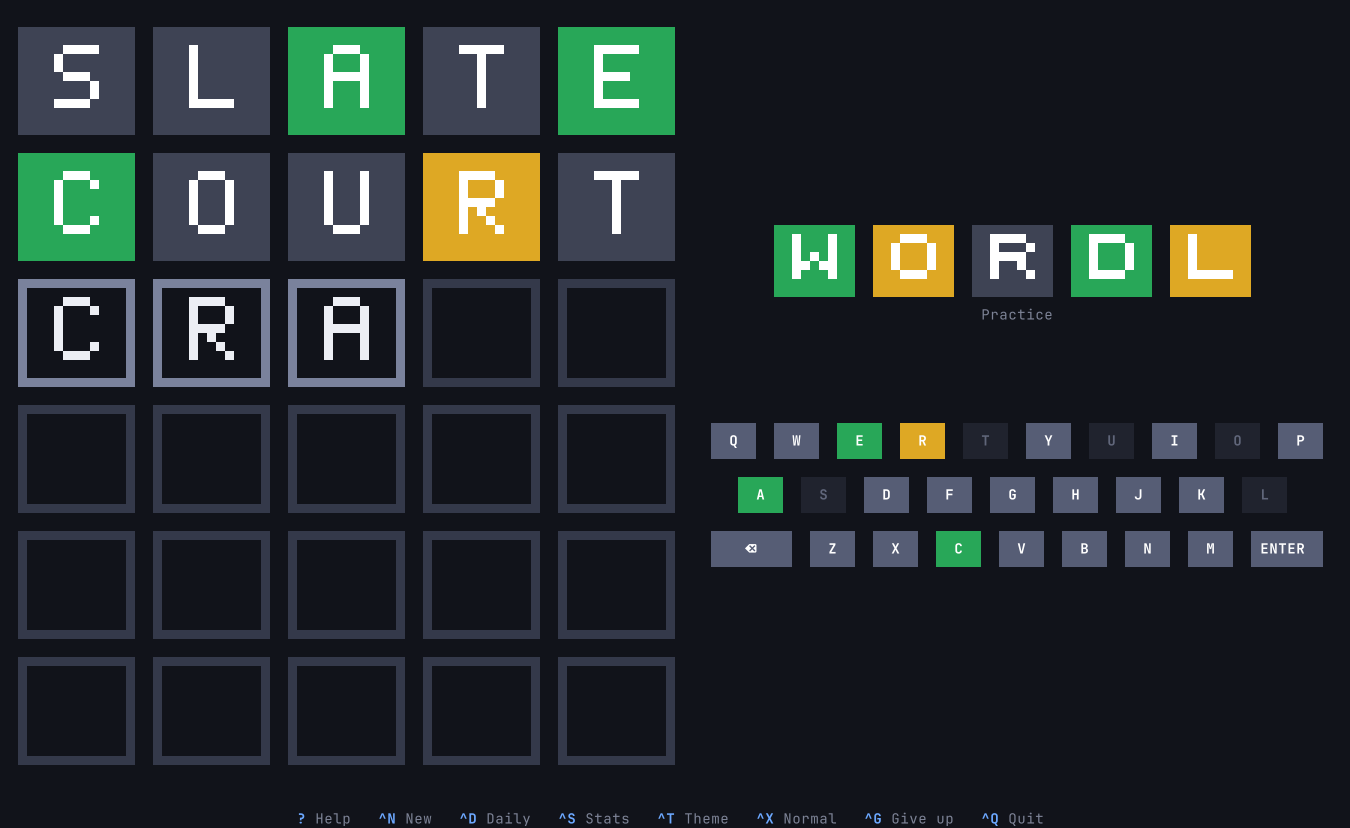
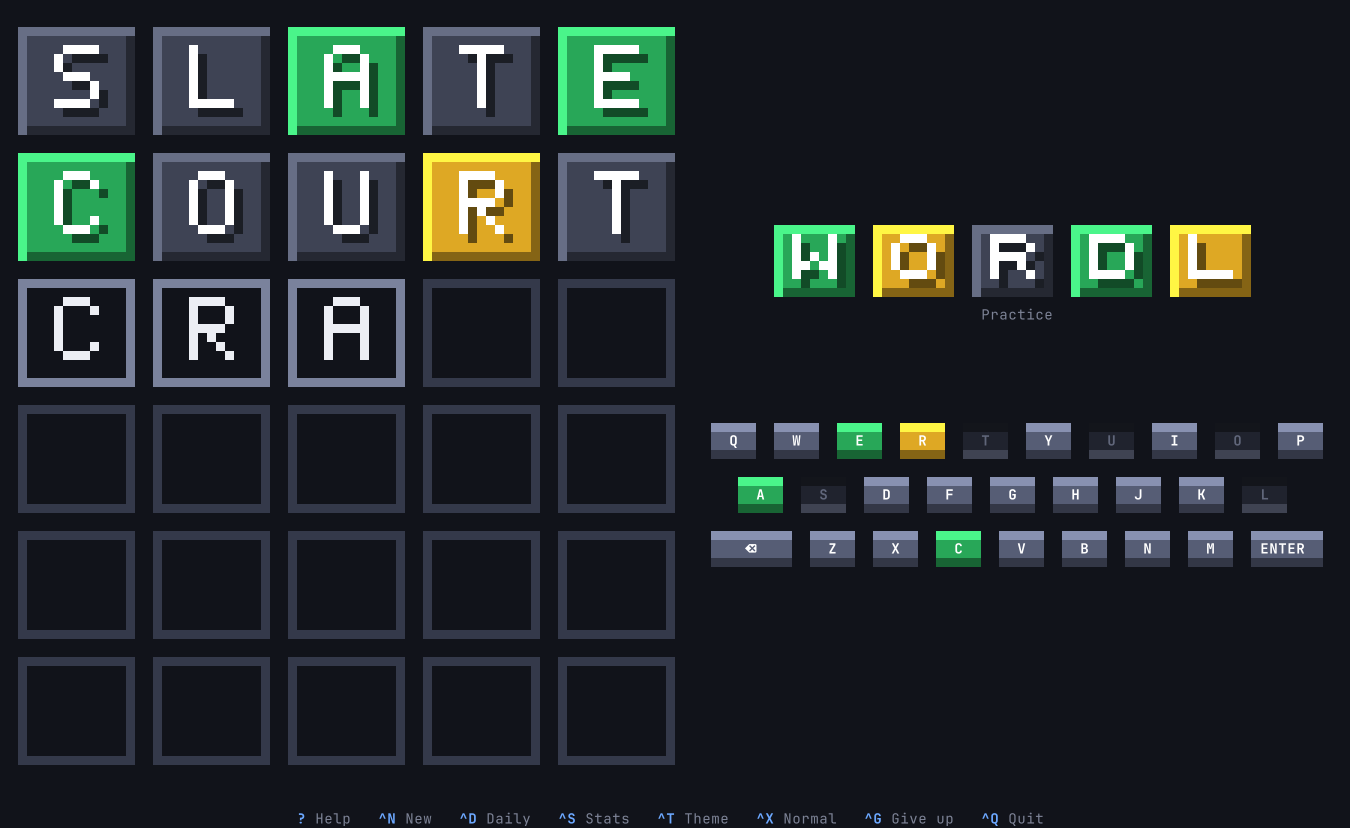
Draw tiles, keys and the title as shaded pixel art (0.2.6)
Filled blocks now have a lit top and left edge, a dark bottom and right
edge, and letters that cast a shadow, with a color for every pixel. It
is done with the half-block character the game already used: each cell
is drawn in its upper pixel's color on a background of its lower
pixel's, so it works in any terminal with enough colors. A key known
not to be in the word looks pressed in. The terminal theme, which has
no colors to shade, stays flat.

Changed region(s): [[0.0, 0.0302, 0.4978, 0.3321], [0.5289, 0.5133, 0.9956, 0.6944], [0.56, 0.2717, 0.9333, 0.3623]]

diff --git a/src/ui.rs b/src/ui.rs
@@ -12,7 +12,7 @@ use crate::app::{Action, App, FLASH_STEP, FLIP, KeyId, MessageKind, Modal, SHAKE
 use crate::font::{self, Label};
 use crate::game::{self, Mark, Mode, Status};
 use crate::layout::{self, Layout};
-use crate::theme::{Paint, Theme};
+use crate::theme::{self, Paint, Shades, Theme};
 use crate::words;
 
 const KEY_ROWS: [&str; 3] = ["QWERTYUIOP", "ASDFGHJKL", "ZXCVBNM"];
@@ -74,8 +74,11 @@ impl Canvas<'_> {
     /// blocks without spending a row on it. `fill` paints the block in `bg`; otherwise
     /// it is a frame in `bg` around the label. `inset` squashes the block vertically,
     /// for the flip animation.
+    ///
+    /// A filled block is drawn raised, as pixel art, where the theme has shades for it
+    /// (see `sprite`); `sunken` presses it in instead.
     #[allow(clippy::too_many_arguments)]
-    fn block(&mut self, x: i32, y: i32, w: i32, t: i32, fill: bool, bg: Paint, fg: Paint, label: Label, inset: i32) {
+    fn block(&mut self, x: i32, y: i32, w: i32, t: i32, fill: bool, bg: Paint, fg: Paint, label: Label, inset: i32, sunken: bool) {
         let screen = self.th.bg.bg;
         if t < 3 {
             return self.put(x, y, &centered(&label.text(w), w), on(fg.fg, bg.bg).bold());
@@ -88,8 +91,21 @@ impl Canvas<'_> {
         if bottom == top {
             return self.put(x, y + top, &"━".repeat(w as usize), edge);
         }
-        self.put(x, y + top, &"▄".repeat(w as usize), edge);
-        self.put(x, y + bottom, &"▀".repeat(w as usize), edge);
+        let shades = self.th.shades(bg).filter(|_| fill);
+        if let Some(shades) = shades
+            && t >= 5
+        {
+            return self.sprite(x, y, w, t, bg, fg, label, inset, sunken, shades);
+        }
+        // With one row of text there is no room for more than a lit top edge and a
+        // dark bottom one.
+        let (above, below) = match shades {
+            Some(s) if sunken => (s.dark, s.light),
+            Some(s) => (s.light, s.dark),
+            None => (bg.fg, bg.fg),
+        };
+        self.put(x, y + top, &"▄".repeat(w as usize), on(above, screen));
+        self.put(x, y + bottom, &"▀".repeat(w as usize), on(below, screen));
         let rows = if t == 3 { vec![centered(&label.text(w), w)] } else { font::glyph(label, w, t) };
         for i in top + 1..bottom {
             let Some(row) = rows.get((i - 1) as usize) else { continue };
@@ -100,6 +116,49 @@ impl Canvas<'_> {
                 self.put(x, y + i, "█", edge);
                 self.put(x + 1, y + i, &inner, on(fg.fg, screen).bold());
                 self.put(x + w - 1, y + i, "█", edge);
+            }
+        }
+    }
+
+    /// A filled block as pixel art: lit top and left edges, dark bottom and right
+    /// edges, and a letter that casts a shadow down and to the right.
+    ///
+    /// Every pixel has its own color. A cell holds two of them, one above the other:
+    /// it is drawn as `▀` in the color of the upper pixel on a background in the color
+    /// of the lower one. The block's first and last pixel rows are the screen's, as
+    /// for flat blocks, which keeps the gap between blocks.
+    #[allow(clippy::too_many_arguments)]
+    fn sprite(&mut self, x: i32, y: i32, w: i32, t: i32, bg: Paint, fg: Paint, label: Label, inset: i32, sunken: bool, shades: Shades) {
+        let screen = self.th.bg.bg;
+        let ink = font::pixels(label, w, t);
+        let inked = |col: i32, row: i32| row >= 2 && col >= 0 && ink.get((row - 2) as usize).and_then(|r| r.get(col as usize)).copied().unwrap_or(false);
+        let (lit, unlit) = if sunken { (shades.dark, shades.light) } else { (shades.light, shades.dark) };
+        // Big blocks get a thicker edge and a longer shadow, so the look scales.
+        let edge = if t >= 10 { 2 } else { 1 };
+        let reach = (font::scale_for(t) + 1) / 2;
+        // A light letter throws a dark shadow; a dark letter on a bright tile gets a
+        // light one instead, and reads as engraved.
+        let cast = if theme::brightness(fg) >= theme::brightness(bg) { shades.shadow } else { shades.light };
+        let (first, last) = (1 + 2 * inset, 2 * t - 2 - 2 * inset);
+        let color_at = |col: i32, row: i32| {
+            if row < first || row > last {
+                screen
+            } else if inked(col, row) {
+                fg.fg
+            } else if row - first < edge || col < edge {
+                lit
+            } else if last - row < edge || w - 1 - col < edge {
+                unlit
+            } else if !sunken && inked(col - reach, row - reach) {
+                cast
+            } else {
+                bg.bg
+            }
+        };
+        for i in inset..t - inset {
+            for col in 0..w {
+                let (upper, lower) = (color_at(col, 2 * i), color_at(col, 2 * i + 1));
+                self.put(x + col, y + i, if upper == lower { " " } else { "▀" }, on(upper, lower));
             }
         }
     }
@@ -161,7 +220,7 @@ fn draw_title(c: &mut Canvas, app: &App, l: &Layout) {
     }
     let colors = [(th.g, th.gfg), (th.y, th.yfg), (th.x, th.xfg), (th.g, th.gfg), (th.y, th.yfg)];
     for (i, (letter, (bg, fg))) in "WORDL".bytes().zip(colors).enumerate() {
-        c.block(x + i as i32 * l.title.px, l.hy, l.title.w, l.title.t, true, bg, fg, Label::Letter(letter), 0);
+        c.block(x + i as i32 * l.title.px, l.hy, l.title.w, l.title.t, true, bg, fg, Label::Letter(letter), 0, false);
     }
 }
 
@@ -214,7 +273,7 @@ fn draw_tile(c: &mut Canvas, app: &App, l: &Layout, row: usize, col: usize) {
         {
             (bg, fg) = (th.win, th.gfg);
         }
-        return c.block(x, y, d.w, d.t, true, bg, fg, Label::Letter(game.guesses[row][col]), inset);
+        return c.block(x, y, d.w, d.t, true, bg, fg, Label::Letter(game.guesses[row][col]), inset, false);
     }
     let letter = if row < guessed {
         Some(game.guesses[row][col])
@@ -228,9 +287,9 @@ fn draw_tile(c: &mut Canvas, app: &App, l: &Layout, row: usize, col: usize) {
     };
     let label = letter.map_or(Label::None, Label::Letter);
     if d.t == 1 {
-        c.block(x, y, d.w, 1, true, th.empty, th.fg, label, 0);
+        c.block(x, y, d.w, 1, true, th.empty, th.fg, label, 0, false);
     } else {
-        c.block(x, y, d.w, d.t, false, if letter.is_some() { th.typed } else { th.empty }, th.fg, label, inset);
+        c.block(x, y, d.w, d.t, false, if letter.is_some() { th.typed } else { th.empty }, th.fg, label, inset, false);
     }
 }
 
@@ -273,7 +332,8 @@ fn draw_keyboard(c: &mut Canvas, app: &App, l: &Layout) {
             Some(mark) => mark_paints(th, mark),
             None => (th.key, th.keyfg),
         };
-        c.block(x, y, w, l.keys.t, true, bg, fg, label, 0);
+        // A key known not to be in the word looks pressed in.
+        c.block(x, y, w, l.keys.t, true, bg, fg, label, 0, mark == Some(Mark::Gray));
     }
 }
 
@@ -630,6 +690,43 @@ mod tests {
         // The typed L as a bitmap inside its frame: a vertical stroke, then its foot.
         assert!(has(&s, "█ ██         █  █            █"), "no block letter");
         assert!(has(&s, "█ ██▄▄▄▄▄▄▄▄ █") || has(&s, "█ ██████████ █"), "no foot of the L");
+        let _ = std::fs::remove_dir_all(dir);
+    }
+
+    /// A revealed tile on a big terminal is pixel art: every cell carries two pixels,
+    /// the upper as the character's color and the lower as its background.
+    #[test]
+    fn revealed_tiles_are_shaded_pixel_art() {
+        let (mut app, dir) = app("sprite");
+        app.game.add_guess(game::word("CRANE").unwrap());
+        app.size = (190, 50);
+        let l = layout::layout(190, 50).unwrap();
+        let cells = |app: &App| {
+            let mut terminal = Terminal::new(TestBackend::new(190, 50)).unwrap();
+            terminal.draw(|f| draw(f, app)).unwrap();
+            let buf = terminal.backend().buffer().clone();
+            move |x: i32, y: i32| buf[((l.bx + x) as u16, (l.by + y) as u16)].clone()
+        };
+        let th = app.theme;
+        let shades = th.shades(th.g).unwrap();
+        let at = cells(&app);
+        // Top-left cell of the first tile: the screen above, the lit edge below.
+        assert_eq!((at(0, 0).symbol(), at(0, 0).fg, at(0, 0).bg), ("▀", th.bg.bg, shades.light));
+        // Further down the left edge both pixels are lit, so the cell is one color.
+        assert_eq!((at(0, 3).symbol(), at(0, 3).bg), (" ", shades.light));
+        // The right edge and the bottom edge are dark.
+        assert_eq!(at(l.board.w - 1, 3).bg, shades.dark);
+        assert_eq!((at(3, l.board.t - 1).fg, at(3, l.board.t - 1).bg), (shades.dark, th.bg.bg));
+        // Somewhere on the tile there is the letter, its shadow, and the plain green.
+        let seen: Vec<_> = (0..l.board.w).flat_map(|x| (0..l.board.t).map(move |y| (x, y))).flat_map(|(x, y)| [at(x, y).fg, at(x, y).bg]).collect();
+        for color in [th.gfg.fg, shades.shadow, th.g.bg] {
+            assert!(seen.contains(&color), "{color:?} is missing from the tile");
+        }
+
+        // The terminal theme has no shades to work with: its tiles stay flat.
+        app.theme = theme::theme("terminal", true);
+        let at = cells(&app);
+        assert_eq!((at(0, 0).symbol(), at(0, 0).fg), ("▄", app.theme.g.fg));
         let _ = std::fs::remove_dir_all(dir);
     }
 

diff --git a/src/theme.rs b/src/theme.rs
@@ -14,11 +14,26 @@ use ratatui::style::Color;
 pub struct Paint {
     pub fg: Color,
     pub bg: Color,
+    /// The color as red, green and blue, from which lighter and darker shades are
+    /// worked out. `None` in the "terminal" theme, whose colors are the terminal's own
+    /// and cannot be shaded.
+    pub rgb: Option<(u8, u8, u8)>,
+}
+
+/// The shades that make a flat tile look raised: a lit edge, a dark edge, and the
+/// shadow a letter casts on it.
+#[derive(Clone, Copy, PartialEq, Eq, Debug)]
+pub struct Shades {
+    pub light: Color,
+    pub dark: Color,
+    pub shadow: Color,
 }
 
 #[derive(Clone, Copy)]
 pub struct Theme {
     pub name: &'static str,
+    /// Whether colors are sent as exact RGB or as the nearest of 256.
+    truecolor: bool,
     /// The screen.
     pub bg: Paint,
     /// Ordinary text.
@@ -94,10 +109,11 @@ fn from_rgb(name: &'static str, truecolor: bool, c: [(u8, u8, u8); 23]) -> Theme
     let p = |i: usize| {
         let (r, g, b) = c[i];
         let color = if truecolor { Color::Rgb(r, g, b) } else { nearest_256(r, g, b) };
-        Paint { fg: color, bg: color }
+        Paint { fg: color, bg: color, rgb: Some((r, g, b)) }
     };
     Theme {
         name,
+        truecolor,
         bg: p(0),
         fg: p(1),
         dim: p(2),
@@ -126,11 +142,12 @@ fn from_rgb(name: &'static str, truecolor: bool, c: [(u8, u8, u8); 23]) -> Theme
 
 /// The terminal's own colors. `Reset` is its default foreground or background.
 fn terminal() -> Theme {
-    let same = |c: Color| Paint { fg: c, bg: c };
+    let same = |c: Color| Paint { fg: c, bg: c, rgb: None };
     let default = same(Color::Reset);
     Theme {
         name: "terminal",
-        bg: Paint { fg: Color::Black, bg: Color::Reset },
+        truecolor: false,
+        bg: Paint { fg: Color::Black, bg: Color::Reset, rgb: None },
         fg: default,
         dim: same(Color::DarkGray),
         empty: same(Color::DarkGray),
@@ -144,7 +161,7 @@ fn terminal() -> Theme {
         xfg: same(Color::White),
         key: same(Color::Gray),
         keyfg: same(Color::Black),
-        keyx: Paint { fg: Color::DarkGray, bg: Color::Reset },
+        keyx: Paint { fg: Color::DarkGray, bg: Color::Reset, rgb: None },
         keyxfg: same(Color::DarkGray),
         accent: same(Color::Cyan),
         panel: default,
@@ -154,6 +171,24 @@ fn terminal() -> Theme {
         btn: same(Color::Cyan),
         btnfg: same(Color::Black),
     }
+}
+
+impl Theme {
+    /// Lighter and darker versions of a color, for a tile drawn as raised pixel art.
+    /// `None` when the theme's colors cannot be shaded: such tiles stay flat.
+    pub fn shades(&self, paint: Paint) -> Option<Shades> {
+        let (r, g, b) = paint.rgb?;
+        let color = |f: fn(f32) -> f32| {
+            let [r, g, b] = [r, g, b].map(|c| f(c as f32).clamp(0.0, 255.0) as u8);
+            if self.truecolor { Color::Rgb(r, g, b) } else { nearest_256(r, g, b) }
+        };
+        Some(Shades { light: color(|c| c * 1.35 + 20.0), dark: color(|c| c * 0.6), shadow: color(|c| c * 0.45) })
+    }
+}
+
+/// How bright a color looks, from 0 to 255; 128 when it is not known.
+pub fn brightness(paint: Paint) -> u32 {
+    paint.rgb.map_or(128, |(r, g, b)| (299 * r as u32 + 587 * g as u32 + 114 * b as u32) / 1000)
 }
 
 /// The theme of that name; an unknown name gives the default, "midnight".
@@ -285,6 +320,22 @@ mod tests {
         }
         assert_eq!(name, NAMES[0]);
         assert_eq!(theme("no such theme", true).name, "midnight");
+    }
+
+    #[test]
+    fn shades_a_color_lighter_and_darker() {
+        let th = theme("midnight", true);
+        let shades = th.shades(th.g).unwrap();
+        assert_eq!(th.g.bg, Color::Rgb(40, 167, 88));
+        assert_eq!(shades.light, Color::Rgb(74, 245, 138));
+        assert_eq!(shades.dark, Color::Rgb(24, 100, 52));
+        assert_eq!(shades.shadow, Color::Rgb(18, 75, 39));
+        // Without truecolor the shades are still colors the terminal has.
+        assert!(matches!(theme("midnight", false).shades(th.g).unwrap().light, Color::Indexed(_)));
+        // The terminal's own colors cannot be shaded: its tiles stay flat.
+        let terminal = theme("terminal", true);
+        assert_eq!(terminal.shades(terminal.g), None);
+        assert!(brightness(th.gfg) > brightness(th.g));
     }
 
     #[test]

diff --git a/src/font.rs b/src/font.rs
@@ -105,20 +105,24 @@ pub fn font_for(t: i32) -> (i32, i32) {
     (font, scale)
 }
 
-/// Renders a label for a block `w` cells wide and `t` rows tall (`t >= 5`): one string
-/// per inner row (`t - 2` of them), each `w` characters of space, `▀`, `▄` or `█`.
-/// Colorless; the caller sets the colors around it.
-pub fn glyph(label: Label, w: i32, t: i32) -> Vec<String> {
+/// The scale of a block's letters: how many pixels across one pixel of the font is.
+pub fn scale_for(t: i32) -> i32 {
+    font_for(t).1
+}
+
+/// Renders a label as pixels for a block `w` cells wide and `t` rows tall (`t >= 5`):
+/// `2t - 4` rows of `w`, true where there is ink. These are the rows between the
+/// block's top and bottom pixel rows, which belong to its edge.
+pub fn pixels(label: Label, w: i32, t: i32) -> Vec<Vec<bool>> {
     let a = (2 * t - 4).max(0);
-    let blank = || vec![" ".repeat(w.max(0) as usize); (t - 2).max(0) as usize];
+    let mut px = vec![vec![false; w.max(0) as usize]; a as usize];
     let (bitmap, bw, f, s) = match label {
-        Label::None => return blank(),
         Label::Letter(b) if b.is_ascii_uppercase() => {
             let (f, s) = font_for(t);
             let font = if f == 7 { &FONT7 } else { &FONT5 };
             (font[(b - b'A') as usize], 5, f, s)
         }
-        Label::Letter(_) => return blank(),
+        Label::None | Label::Letter(_) => return px,
         Label::Enter | Label::Back => {
             let s = ((a - a / 8) / 5).min((w - 2) / 7).max(1);
             (if label == Label::Enter { ICON_ENTER } else { ICON_BACK }, 7, 5, s)
@@ -126,8 +130,6 @@ pub fn glyph(label: Label, w: i32, t: i32) -> Vec<String> {
     };
     let (gw, gh) = (bw * s, f * s);
     let (xo, yo) = (((w - gw) / 2).max(0), ((a - gh) / 2).max(0));
-    // Pixel rows, each `w` wide; true is inked.
-    let mut px = vec![vec![false; w.max(0) as usize]; a as usize];
     for (r, line) in bitmap.split(' ').enumerate() {
         for (c, ch) in line.bytes().enumerate() {
             if ch != b'#' {
@@ -143,7 +145,15 @@ pub fn glyph(label: Label, w: i32, t: i32) -> Vec<String> {
             }
         }
     }
-    px.chunks(2)
+    px
+}
+
+/// The same label as rows of characters, one per inner row of the block (`t - 2` of
+/// them): each `w` characters of space, `▀`, `▄` or `█`. Colorless; the caller sets
+/// the colors around it. For blocks drawn in two colors only.
+pub fn glyph(label: Label, w: i32, t: i32) -> Vec<String> {
+    pixels(label, w, t)
+        .chunks(2)
         .map(|pair| {
             (0..w.max(0) as usize)
                 .map(|x| match (pair[0][x], pair.get(1).is_some_and(|row| row[x])) {

diff --git a/CLAUDE.md b/CLAUDE.md
@@ -81,6 +81,23 @@ Single binary crate, no async. One file per concern in `src/`:
   (`▄` on top, `▀` at the bottom, in the tile's color on the screen background), which
   is what puts a gap between tiles without spending a row on it. `Canvas::block` draws
   every tile, key and title letter.
+- **Filled blocks are pixel art with a color per pixel** (asked for by the user after
+  comparing nine ways of drawing tiles in a demo; since 0.2.6). `Canvas::sprite` draws
+  a revealed tile, a key or a title letter with a lit top and left edge, a dark bottom
+  and right edge, and a letter that casts a shadow. Each cell is `▀` in the color of
+  its upper pixel on a background in the color of its lower pixel, so it needs no
+  more than the characters the game already used and works in any terminal with
+  enough colors. `Theme::shades` derives the lighter and darker colors from a role's
+  RGB. Things to keep:
+  - The `terminal` theme has no RGB to shade (`Paint::rgb` is `None`), so its blocks
+    stay flat: the code path before `sprite` in `Canvas::block` must keep working.
+  - Frames (empty and typed tiles) are not shaded; only filled blocks are.
+  - A key known not to be in the word is drawn `sunken` (edges swapped, no shadow).
+  - At level 3 there is one row of text, so only the top and bottom edges are shaded.
+  - A dark letter on a bright tile (the `neon` and `contrast` themes) gets a light
+    "shadow" instead of a dark one.
+  - Real images (the kitty graphics protocol) were tried in the demo and rejected:
+    the user's usual terminal does not show them.
 - **All coordinates are `i32` and every write is clipped.** `Canvas::put` drops what is
   off screen, so drawing code never checks bounds and never panics on a tiny window.
   It also resets a cell before writing, so a dialog drawn over bold tiles is not bold.

diff --git a/README.md b/README.md
@@ -6,7 +6,8 @@ tries.
 ![wordl in a large terminal: block-letter tiles on the left, keyboard on the right](assets/screenshot.png)
 
 - **Fills the terminal and follows its size.** On a large terminal the tiles and keys
-  are big block letters; on a small one they shrink to single characters. Wide
+  are pixel art, with raised edges and shadowed letters; on a small one they shrink to
+  single characters. Wide
   terminals put the keyboard beside the board, tall ones underneath.
 - **Keyboard first, mouse welcome.** Everything has a key; the on-screen keyboard and
   every button can also be clicked.
